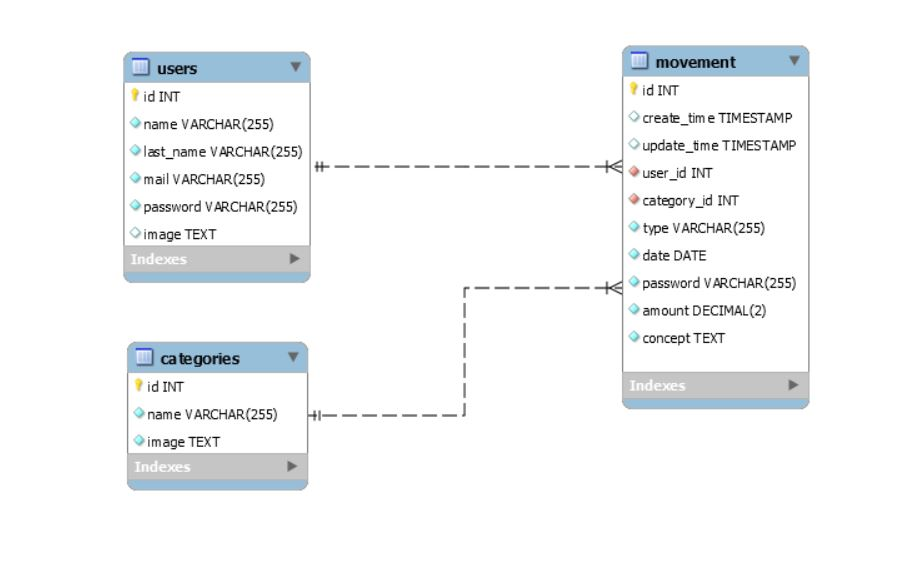
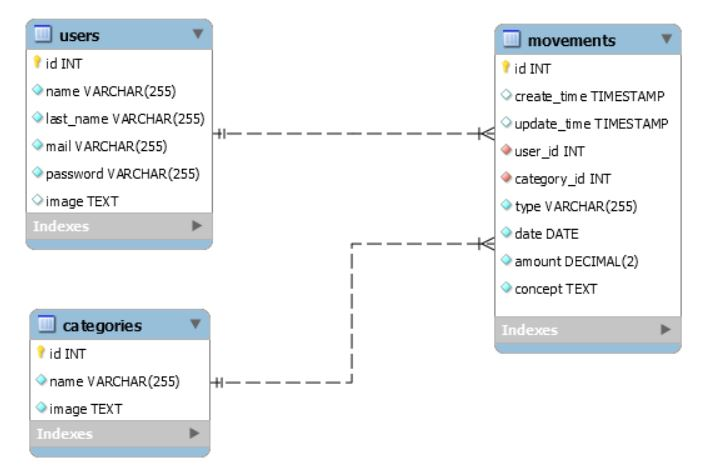
models config

Changed region(s): [[0.031, 0.0295, 0.9619, 0.9726]]

diff --git a/src/database/models/Movement.js b/src/database/models/Movement.js
@@ -1,0 +1,47 @@
+const Sequelize = require('sequelize');
+
+
+module.exports = (sequelize,dataTypes) => {
+
+    let alias = "Movements";
+    let cols = {
+        id: {
+            type: dataTypes.INTEGER,
+            primaryKey:true,
+            autoIncrement:true,
+        },
+        user_id: {
+            type: dataTypes.INTEGER,
+            allowNull: false
+        },
+        category_id: {
+            type: dataTypes.INTEGER,
+            allowNull: false
+        },
+        type:{
+            type: dataTypes.STRING,
+            allowNull: false,
+        },
+        date:{
+            type: dataTypes.DATE,
+            allowNull: false,
+        },
+        amount: {
+            type:dataTypes.DECIMAL,
+            allowNull: false,
+        },
+        concept: {
+            type: dataTypes.STRING,
+            allowNull: false,
+        },
+    };
+
+    let config = {
+        tableName: "movements",
+        timestamps: true
+    }
+
+    const Movements = sequelize.define(alias,cols,config);
+
+    return Movements;
+}

diff --git a/src/database/models/User.js b/src/database/models/User.js
@@ -1,0 +1,42 @@
+const Sequelize = require('sequelize');
+
+
+module.exports = (sequelize,dataTypes) => {
+
+    let alias = "Users";
+    let cols = {
+        id: {
+            type: dataTypes.INTEGER,
+            primaryKey:true,
+            autoIncrement:true,
+        },
+        name: {
+            type: dataTypes.STRING,
+            allowNull: false
+        },
+        last_name:{
+            type: dataTypes.STRING,
+            allowNull: false,
+        },
+        mail: {
+            type:dataTypes.STRING,
+            allowNull: false,
+        },
+        password: {
+            type: dataTypes.STRING,
+            allowNull: false,
+        },
+        image: {
+            type: dataTypes.STRING
+        }
+    };
+
+    let config = {
+        tableName: "users",
+        timestamps: false
+    }
+
+    const Users = sequelize.define(alias,cols,config);
+
+    return Users;
+}

diff --git a/src/database/models/Category.js b/src/database/models/Category.js
@@ -1,0 +1,31 @@
+const Sequelize = require('sequelize');
+
+
+module.exports = (sequelize,dataTypes) => {
+
+    let alias = "Categories";
+    let cols = {
+        id: {
+            type: dataTypes.INTEGER,
+            primaryKey:true,
+            autoIncrement:true
+        },
+        name: {
+            type: dataTypes.STRING,
+            allowNull: false,
+        },
+        image: {
+            type: dataTypes.STRING,
+            allowNull: false,
+        }
+    };
+
+    let config = {
+        tableName: "categories",
+        timestamps: false
+    }
+
+    const Categories = sequelize.define(alias,cols,config);
+
+    return Categories;
+}
